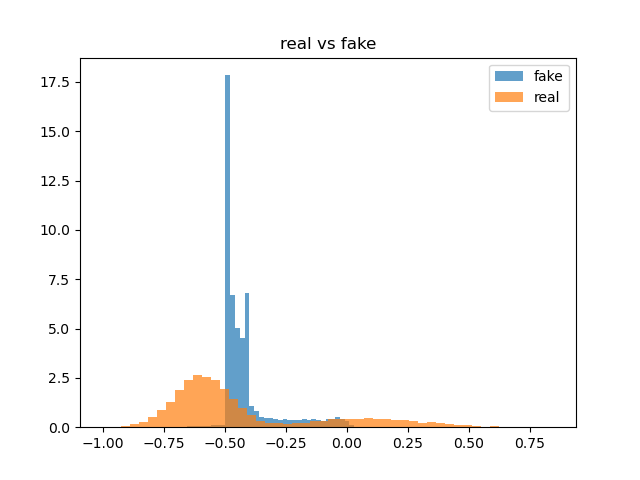
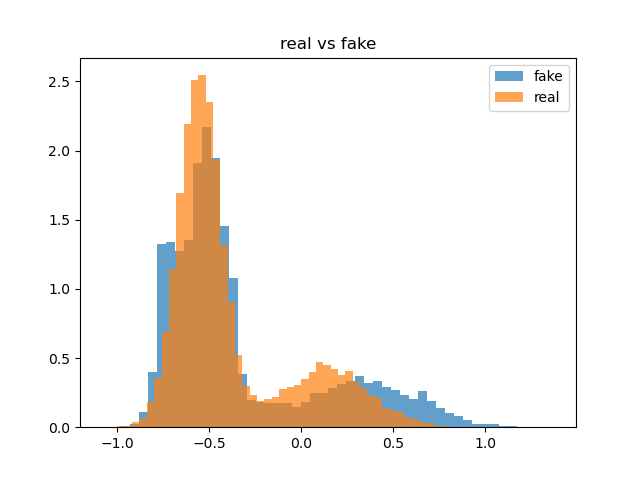
fix: Alternate GAN training introduced which stablized the training. Also committing the files which were not committed.

diff --git a/GANs/GAN.py b/GANs/GAN.py
@@ -75,10 +75,10 @@ def train_validate_epoch(generator, discriminator, loader, epoch, optimizer_gen,
     train_losses = OrderedDict([('gen_loss_train', []), ('disc_loss_train', [])])
     val_losses = OrderedDict([('gen_loss_val', []), ('disc_loss_val', [])])
 
-    for data_ in loader:
+    for i, data_ in enumerate(loader):
         batch_size = data_.size(0)
         fakes = generator.sample(batch_size)
-        disc_loss = -(torch.log(discriminator(data_)).mean() + torch.log(1 - discriminator(fakes)).mean())
+        disc_loss = -(discriminator(data_).log().mean() + (1 - discriminator(fakes)).log().mean())
         optimizer_disc.zero_grad()
         if mode == "train":
             disc_loss.backward()
@@ -87,13 +87,14 @@ def train_validate_epoch(generator, discriminator, loader, epoch, optimizer_gen,
         else:
             val_losses[f"disc_loss_{mode}"].append(disc_loss.item())
         optimizer_gen.zero_grad()
-        gen_loss = torch.log(1 - discriminator(generator.sample(batch_size))).mean()
-        if mode == "train":
-            gen_loss.backward()
-            optimizer_gen.step()
-            train_losses[f"gen_loss_{mode}"].append(gen_loss.item())
-        else:
-            val_losses[f"gen_loss_{mode}"].append(gen_loss.item())
+        gen_loss = (1 - discriminator(generator.sample(batch_size))).log().mean()
+        if i % 2 == 0:
+            if mode == "train":
+                gen_loss.backward()
+                optimizer_gen.step()
+                train_losses[f"gen_loss_{mode}"].append(gen_loss.item())
+            else:
+                val_losses[f"gen_loss_{mode}"].append(gen_loss.item())
 
         desc = f"Epoch {epoch}-{mode}"
         if verbose:
@@ -108,8 +109,8 @@ def train_validate_epoch(generator, discriminator, loader, epoch, optimizer_gen,
 
 def train(generator, discriminator, train_loader, test_loader, verbose, **train_args):
     epochs, lr, grad_clip = train_args["epochs"], train_args["lr"], train_args["grad_clip"]
-    optimizer_gen = Adam(generator.parameters(), lr=lr)
-    optimizer_disc = Adam(discriminator.parameters(), lr=lr)
+    optimizer_gen = Adam(generator.parameters(), lr=lr, betas=(0, 0.9))
+    optimizer_disc = Adam(discriminator.parameters(), lr=lr, betas=(0, 0.9))
 
     train_losses = OrderedDict(gen_loss_train=[], disc_loss_train=[])
     test_losses = OrderedDict(gen_loss_val=[], disc_loss_val=[])

diff --git a/GANs/dataset_utils.py b/GANs/dataset_utils.py
@@ -1,0 +1,21 @@
+import numpy as np
+import matplotlib.pyplot as plt
+
+
+def gaussian_data_2mode(n=30000):
+    assert n % 2 == 0
+    gaussian1 = np.random.normal(loc=-1, scale=0.25, size=(n // 2,))
+    gaussian2 = np.random.normal(loc=0.5, scale=0.5, size=(n // 2,))
+    data = (np.concatenate([gaussian1, gaussian2]) + 1).reshape([-1, 1])
+    scaled_data = (data - np.min(data)) / (np.max(data) - np.min(data) + 1e-8)
+    return 2 * scaled_data - 1
+
+
+def visualize_dataset():
+    data = gaussian_data_2mode()
+    plt.hist(data, bins=50, alpha=0.7, label='train data')
+    plt.legend()
+    plt.savefig("2-mode_gaussian.png")
+    plt.show()
+
+# visualize_dataset()
